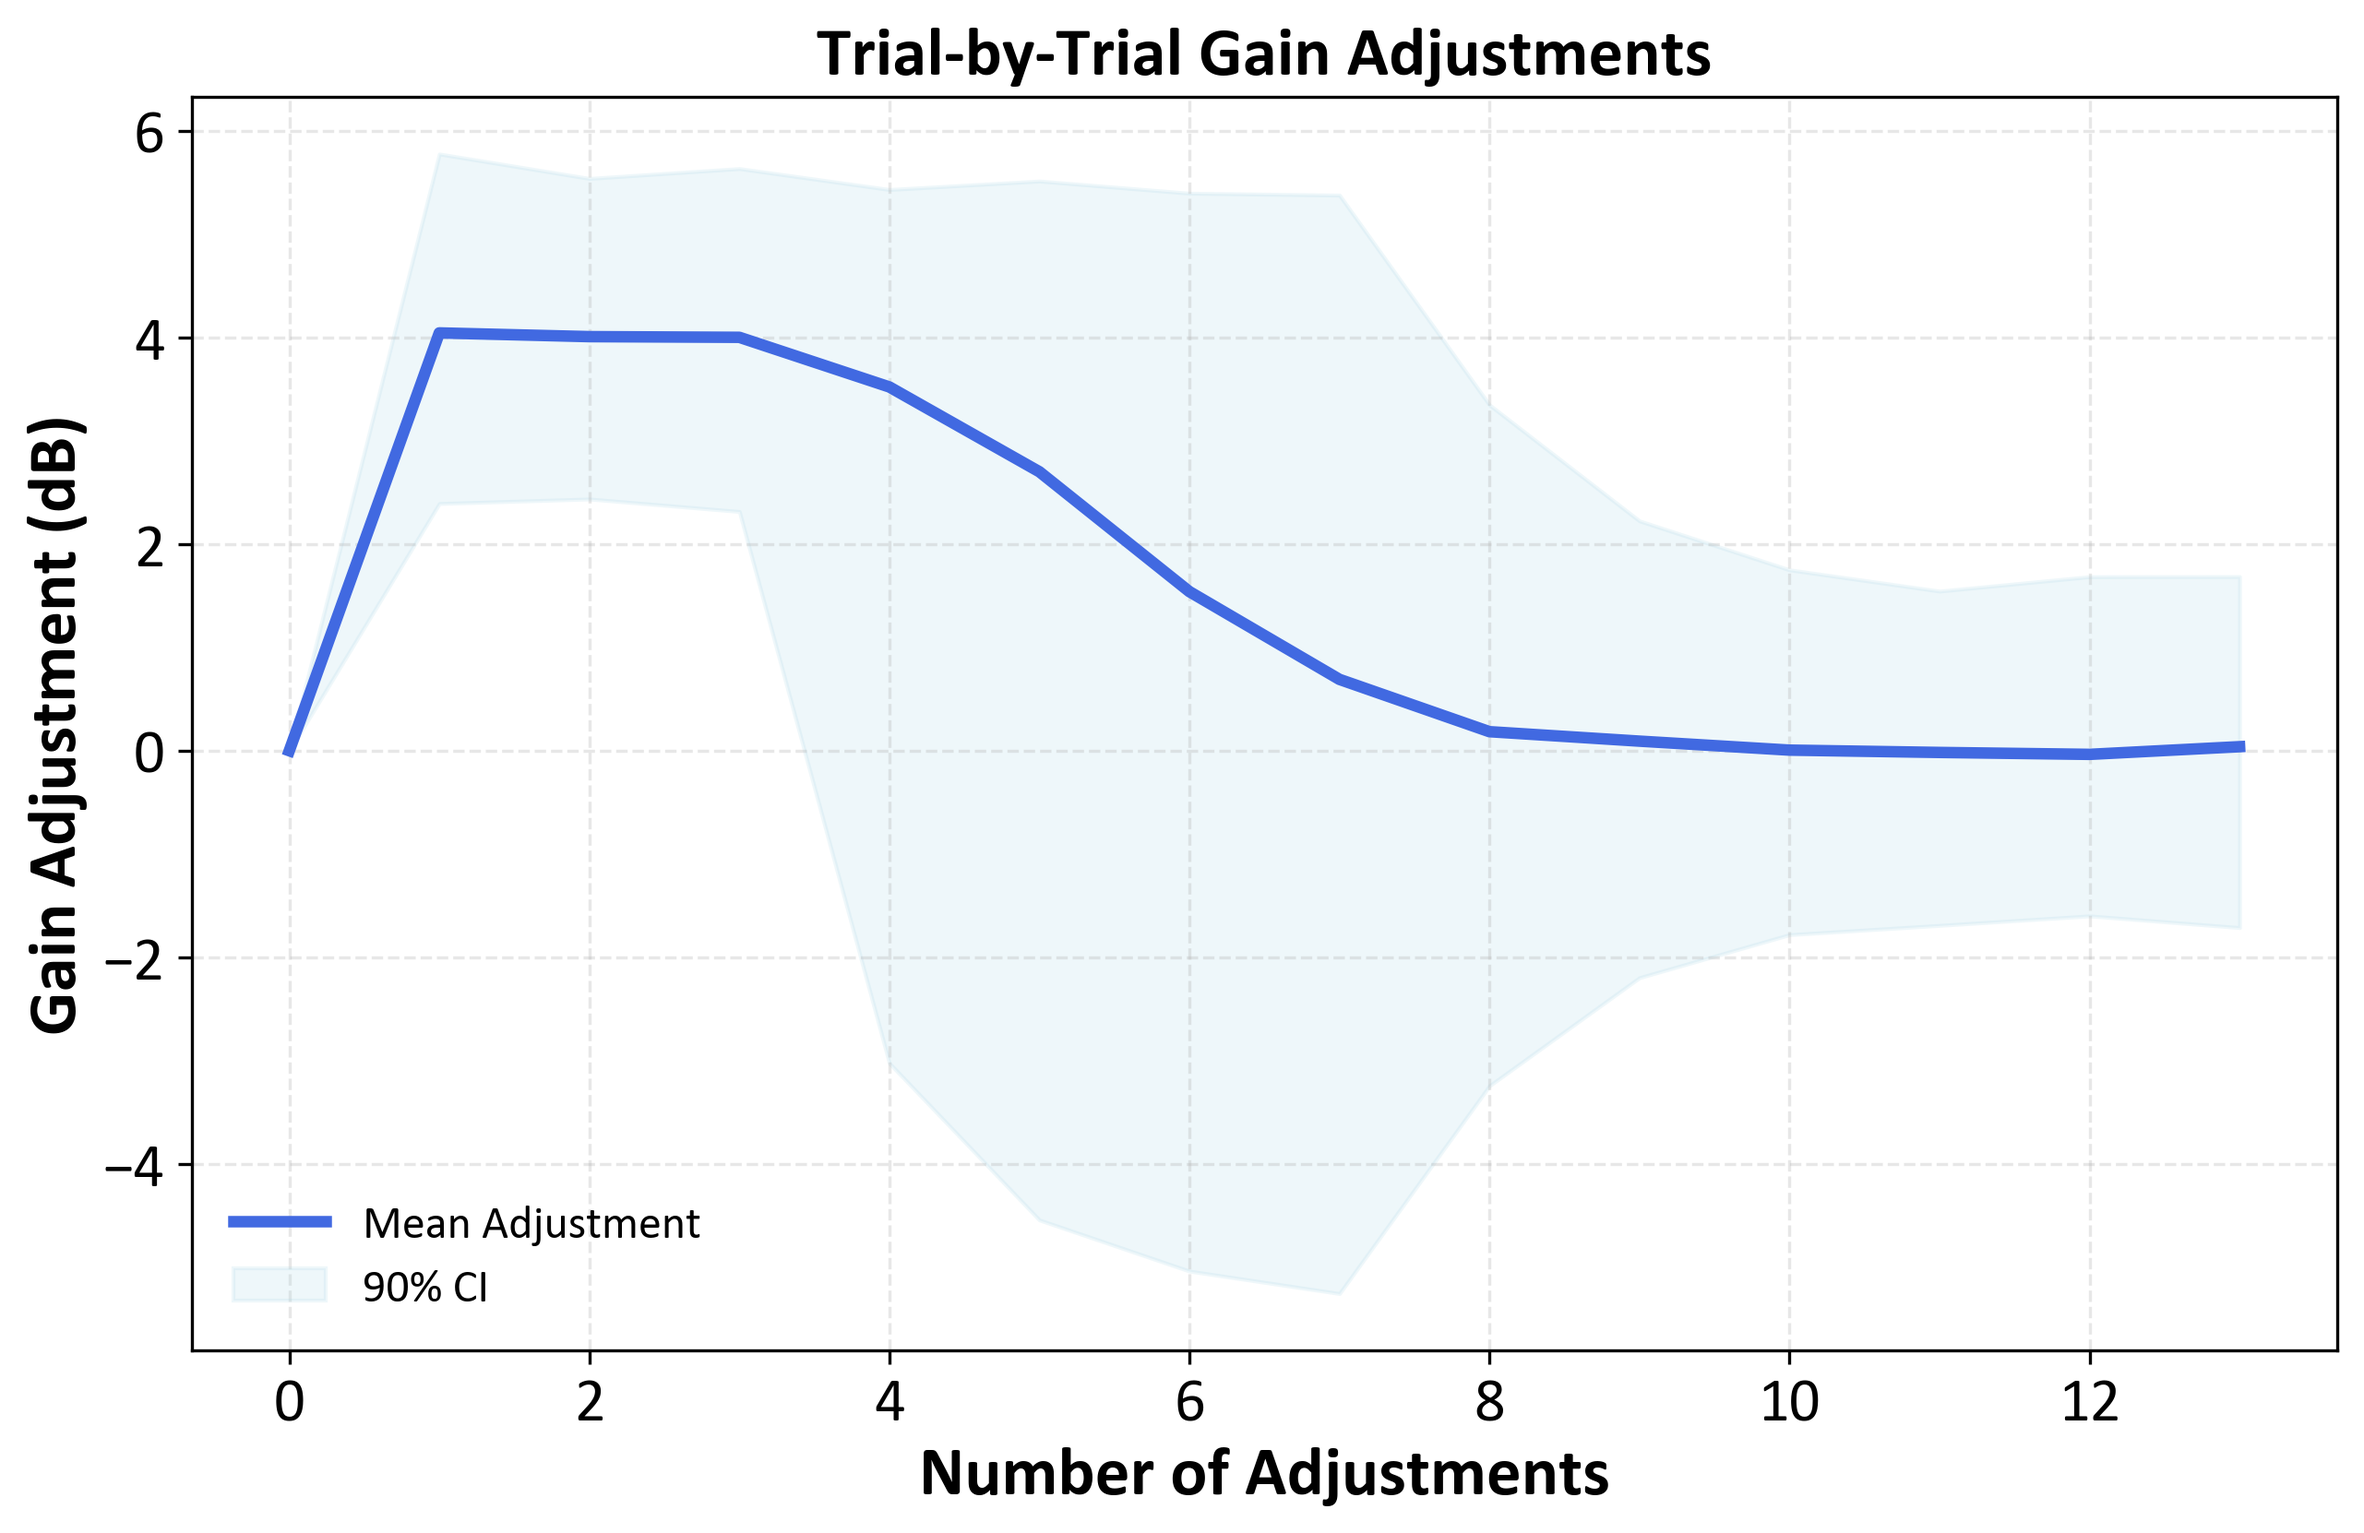
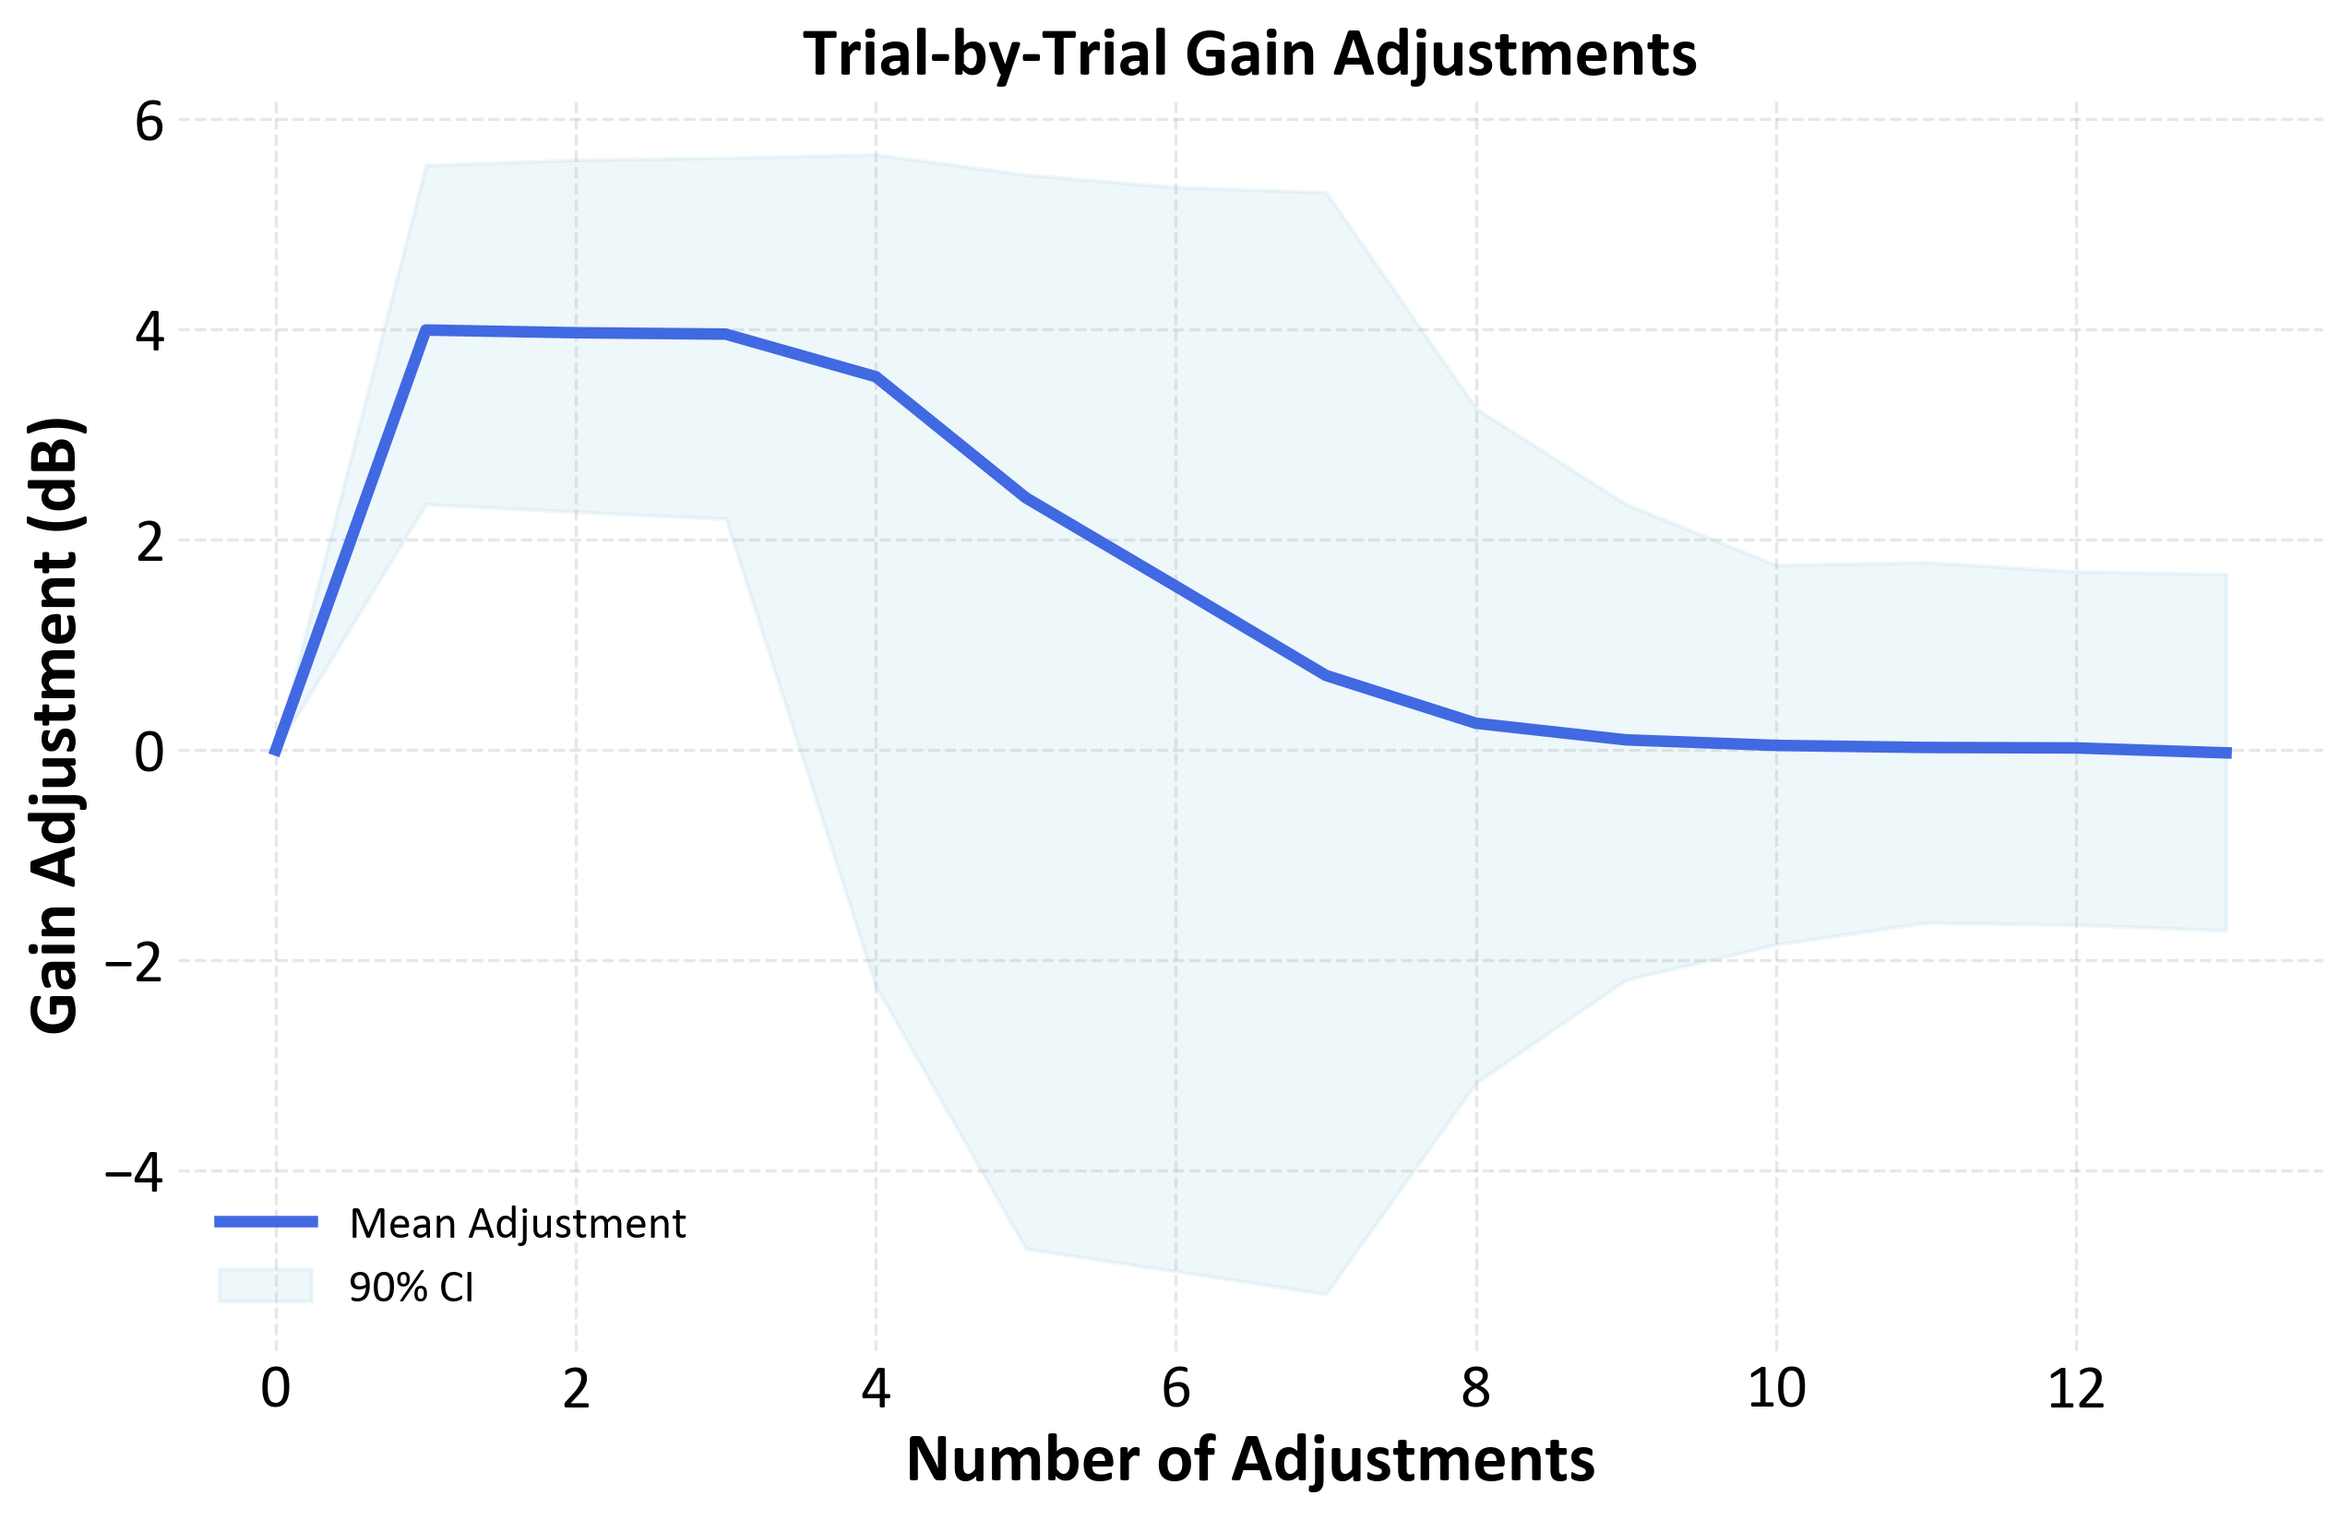
Add files via upload

diff --git a/monte_carlo_gain_adjustment.py b/monte_carlo_gain_adjustment.py
@@ -143,6 +143,13 @@ plt.ylabel("Frequency", fontsize=16, fontweight='bold')
 plt.xticks(fontsize=14)
 plt.yticks(fontsize=14)
 plt.grid(True, linestyle='--', alpha=0.3)
+# Remove axes borders
+plt.gca().spines['top'].set_visible(False)
+plt.gca().spines['right'].set_visible(False)
+plt.gca().spines['left'].set_visible(False)
+plt.gca().spines['bottom'].set_visible(False)
+# Remove x and y tick lines
+plt.tick_params(axis='both', which='both', length=0)
 
 # Save and show the histogram
 folder = 'C:/Users/bc22/OneDrive/Documents/code/gain_adjustment_monte-carlo/'
@@ -162,6 +169,13 @@ plt.xticks(fontsize=16)
 plt.yticks(fontsize=16)
 plt.legend(loc='lower right', fontsize=12, frameon=False, framealpha=0.1)
 plt.grid(True, linestyle='--', alpha=0.3)
+# Remove axes borders
+plt.gca().spines['top'].set_visible(False)
+plt.gca().spines['right'].set_visible(False)
+plt.gca().spines['left'].set_visible(False)
+plt.gca().spines['bottom'].set_visible(False)
+# Remove x and y tick lines
+plt.tick_params(axis='both', which='both', length=0)
 
 # Save and show the figure
 plt.savefig(folder+'mc_convergence.png', dpi=300, bbox_inches='tight')
@@ -184,6 +198,13 @@ plt.xticks(fontsize=16)
 plt.yticks(fontsize=16)
 plt.legend(loc='lower left', fontsize=12, frameon=False, framealpha=0.1)
 plt.grid(True, linestyle='--', alpha=0.3)
+# Remove axes borders
+plt.gca().spines['top'].set_visible(False)
+plt.gca().spines['right'].set_visible(False)
+plt.gca().spines['left'].set_visible(False)
+plt.gca().spines['bottom'].set_visible(False)
+# Remove x and y tick lines
+plt.tick_params(axis='both', which='both', length=0)
 
 # Save and show the updated figure
 plt.savefig(folder+'mc_adjustments.png', dpi=300, bbox_inches='tight')
